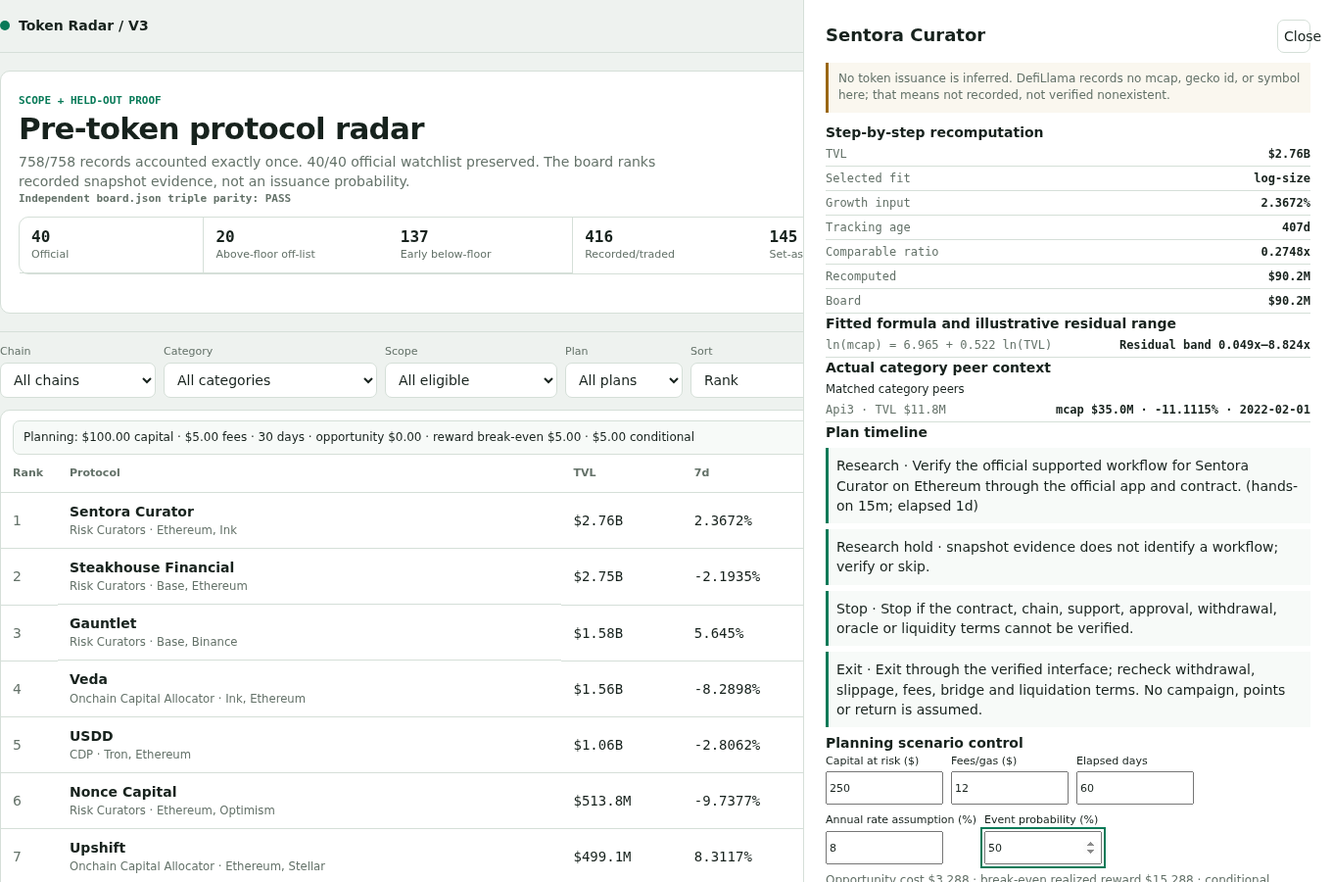
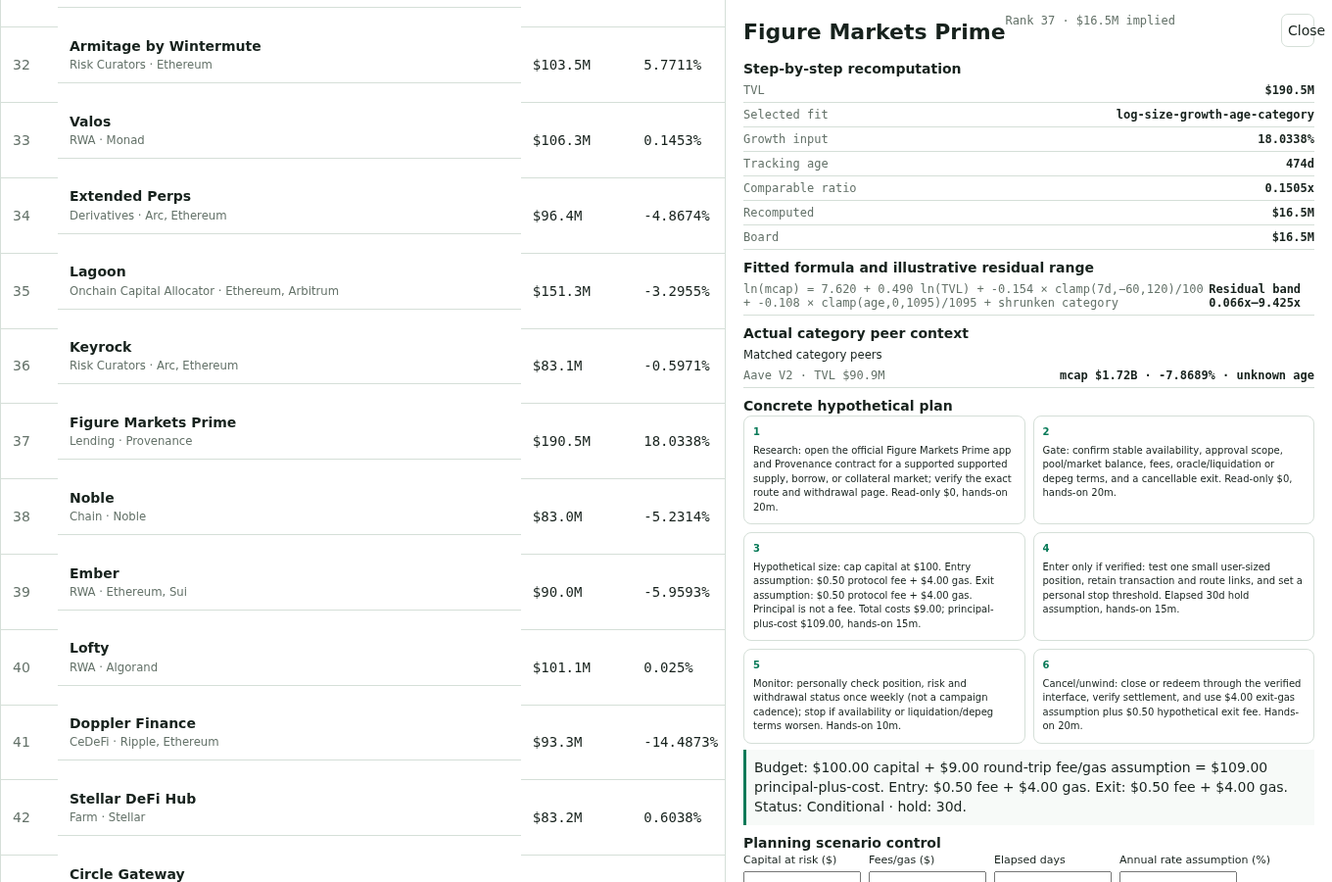
Build Token Radar V4 with costed plans and active valuation inputs

diff --git a/dashboard/app.js b/dashboard/app.js
@@ -18,17 +18,17 @@ function usd(n){if(n==null)return "n/a";if(Math.abs(n)>=1e9)return "$"+(n/1e9).t
 function el(t,c,x){var n=document.createElement(t);if(c)n.className=c;if(x!=null)n.textContent=x;return n}
 function row(r){return {rank:r[0],slug:r[1],name:r[2],category:r[3],chains:r[4],tvl:r[5],growth:r[6],age:r[7],watch:r[8],value:r[9],ratio:r[10],listed:r[11],model:r[12],sensitivity:r[13]}}
 function rows(){return D.rows.map(row)}
-function planStatus(r){return V.planStatus(r.category)}
+function planStatus(r){return V.buildPlan({name:r.name,category:r.category,chains:r.chains,tvl_usd:r.tvl},r.age).status}
 function categories(){var s={};rows().forEach(function(r){s[r.category||"Other"]=1});return Object.keys(s).sort()}
 function chains(){var s={};rows().forEach(function(r){(r.chains||[]).forEach(function(c){s[c]=1})});return Object.keys(s).sort()}
 function filtered(){var q=state.q.toLowerCase();return rows().filter(function(r){if(state.chain!="all"&&(r.chains||[]).indexOf(state.chain)<0)return false;if(state.category!="all"&&(r.category||"Other")!=state.category)return false;if(state.visibility=="watch"&&!r.watch)return false;if(state.visibility=="above"&&(r.watch||r.tvl<D.floor_usd))return false;if(state.visibility=="below"&&(r.watch||r.tvl>=D.floor_usd))return false;if(state.plan!="All"&&planStatus(r)!=state.plan)return false;if(q&&[r.name,r.slug,r.category||"",r.chains.join(" ")].join(" ").toLowerCase().indexOf(q)<0)return false;return true})}
-function header(){var h=el("header","top");var b=el("div","brand");b.appendChild(el("span","dot"));b.appendChild(el("span","","Token Radar / V3"));var m=el("div","topmeta");m.appendChild(el("span","",""+D.as_of+" snapshot"));m.appendChild(el("a","live-link",state.view=="live"?"Return to board":"Separate live view"));m.lastChild.onclick=function(){state.view=state.view=="live"?"board":"live";render();return false};h.appendChild(b);h.appendChild(m);return h}
+function header(){var h=el("header","top");var b=el("div","brand");b.appendChild(el("span","dot"));b.appendChild(el("span","","Token Radar / V4"));var m=el("div","topmeta");m.appendChild(el("span","",""+D.as_of+" snapshot"));m.appendChild(el("a","live-link",state.view=="live"?"Return to board":"Separate live view"));m.lastChild.onclick=function(){state.view=state.view=="live"?"board":"live";render();return false};h.appendChild(b);h.appendChild(m);return h}
 function proofCover(){var f=D.full_coverage,p=D.valuation_proof,c=f.partitions;var sec=el("section","cover");var copy=el("div","covercopy");copy.appendChild(el("span","eyebrow","SCOPE + HELD-OUT PROOF"));copy.appendChild(el("h1","","Pre-token protocol radar"));copy.appendChild(el("p","",""+f.accounted+"/"+f.total+" records accounted exactly once. "+D.coverage.covered+"/"+D.watchlist_size+" official watchlist preserved. The board ranks recorded snapshot evidence, not an issuance probability."));
 copy.appendChild(el("p","eyebrow","Independent board.json triple parity: PASS"));
 var grid=el("div","metrics");[
 ["Official",c.official.count],["Above-floor off-list",c.eligible_above_floor.count],["Early below-floor",c.eligible_early.count],["Recorded/traded",c.recorded_traded.count],["Set-aside",c.set_aside.count]
 ].forEach(function(x){var m=el("div","metric");m.appendChild(el("b","",x[1]+""));m.appendChild(el("span","",x[0]));grid.appendChild(m)});copy.appendChild(grid);sec.appendChild(copy);
-var proof=el("aside","proof");proof.appendChild(el("b","","Fitted vs baselines"));proof.appendChild(el("div","proofline","Flat TVL · med mult "+p.options.flat.median_multiplicative_error.toFixed(3)+" · rank "+p.options.flat.rank_correlation.toFixed(3)));proof.appendChild(el("div","proofline","V2 blend · med mult "+p.options.v2.median_multiplicative_error.toFixed(3)+" · rank "+p.options.v2.rank_correlation.toFixed(3)));proof.appendChild(el("div","proofline","Fit · med mult "+p.held_out.median_multiplicative_error.toFixed(3)+" · rank "+p.held_out.rank_correlation.toFixed(3)));proof.appendChild(el("small","",""+p.peer_count+" held-out peers; leave-one-out "+p.peer_count+" folds; residual range "+p.bands.low.toFixed(3)+"x–"+p.bands.high.toFixed(3)+"x"));proof.appendChild(el("small","","Excluded: WBTC = wrapped Bitcoin; Binance staked ETH = staked derivative; Coinbase Bridge = bridge category. Shared predicates apply blocked category, exchange name, version, and wrapped/staked/receipt reasons."));
+var proof=el("aside","proof");proof.appendChild(el("b","","Fitted vs baselines"));proof.appendChild(el("div","proofline","Flat TVL · med mult "+p.options.flat.median_multiplicative_error.toFixed(3)+" · rank "+p.options.flat.rank_correlation.toFixed(3)));proof.appendChild(el("div","proofline","V2 blend · med mult "+p.options.v2.median_multiplicative_error.toFixed(3)+" · rank "+p.options.v2.rank_correlation.toFixed(3)));proof.appendChild(el("div","proofline","V3 log-size · med mult "+p.options["log-size"].median_multiplicative_error.toFixed(3)+" · rank "+p.options["log-size"].rank_correlation.toFixed(3)));proof.appendChild(el("div","proofline","V4 deployed · med mult "+p.held_out.median_multiplicative_error.toFixed(3)+" · rank "+p.held_out.rank_correlation.toFixed(3)));proof.appendChild(el("small","",""+p.peer_count+" held-out peers; leave-one-out "+p.peer_count+" folds; residual range "+p.bands.low.toFixed(3)+"x–"+p.bands.high.toFixed(3)+"x"));proof.appendChild(el("small","","Excluded: WBTC = wrapped Bitcoin; Binance staked ETH = staked derivative; Coinbase Bridge = bridge category. Shared predicates apply blocked category, exchange name, version, and wrapped/staked/receipt reasons."));
 sec.appendChild(proof);return sec}
 function controls(){var c=el("div","controls");function field(label,opts,id,change){var f=el("div","field");f.appendChild(el("label","",""+label));var s=el("select","");s.id=id;opts.forEach(function(o){var x=el("option","",o[1]);x.value=o[0];s.appendChild(x)});s.value=state[id]||"all";s.onchange=function(){state[id]=s.value;render()};f.appendChild(s);c.appendChild(f)}
 field("Chain",[["all","All chains"]].concat(chains().map(function(x){return [x,x]})),"chain");
@@ -38,20 +38,20 @@ field("Plan",[["All","All plans"],["Research","Research"],["Conditional","Condit
 field("Sort",[["rank","Rank"],["value","Implied value"],["tvl","TVL"],["name","Name"],["growth","7-day growth"]],"sort");
 var q=el("input","search");q.id="q";q.placeholder="Search protocol";q.value=state.q;q.oninput=function(){state.q=q.value;renderList()};c.appendChild(q);return c}
 function liveTable(){var q=state.q.toLowerCase(),list=D.live.map(function(a){return{slug:a[0],name:a[1],category:a[2],chains:a[3],tvl:a[4],mcap:a[5],growth:a[6],symbol:a[7]}}).filter(function(r){if(state.chain!="all"&&(r.chains||[]).indexOf(state.chain)<0)return false;if(state.category!="all"&&(r.category||"Other")!=state.category)return false;if(q&&[r.name,r.slug,r.category||"",r.symbol||"",r.chains.join(" ")].join(" ").toLowerCase().indexOf(q)<0)return false;return true});var panel=el("div","panel"),wrap=el("div","tablewrap"),table=el("table","live-table");table.appendChild(el("caption","live-caption","Reference records only; excluded from the pre-token ranking"));var tr=el("tr","");["Symbol","Protocol","Category","TVL","Reported mcap","7d"].forEach(function(t){tr.appendChild(el("th","",t))});table.appendChild(tr);list.forEach(function(r){var tr=el("tr","");tr.dataset.liveSlug=r.slug;tr.appendChild(el("td","",r.symbol||"n/a"));tr.appendChild(el("td","",r.name));tr.appendChild(el("td","",r.category||"Other"));tr.appendChild(el("td","num",usd(r.tvl)));tr.appendChild(el("td","num",r.mcap==null?"n/a":usd(r.mcap)));tr.appendChild(el("td","num",r.growth==null?"n/a":r.growth+"%"));table.appendChild(tr)});wrap.appendChild(table);panel.appendChild(wrap);return panel}
-function table(){var list=filtered().slice().sort(function(a,b){if(state.sort==="value")return b.value-a.value||a.slug.localeCompare(b.slug);if(state.sort==="tvl")return b.tvl-a.tvl||a.slug.localeCompare(b.slug);if(state.sort==="name")return a.name.localeCompare(b.name);if(state.sort==="growth")return (b.growth==null?-Infinity:b.growth)-(a.growth==null?-Infinity:a.growth)||a.slug.localeCompare(b.slug);return a.rank-b.rank||a.slug.localeCompare(b.slug)}),panel=el("div","panel"),wrap=el("div","tablewrap"),table=el("table",""),tr=el("tr","");["Rank","Protocol","TVL","7d","Value","Status","Plan"].forEach(function(t){tr.appendChild(el("th","",t))});table.appendChild(tr);list.forEach(function(r){var tr=el("tr","");tr.tabIndex=0;tr.onclick=function(){openDetail(r)};tr.onkeydown=function(e){if(e.key=="Enter"||e.key==" "){e.preventDefault();openDetail(r)}};tr.appendChild(el("td","rank",""+r.rank));var p=el("td","protocol");p.appendChild(el("b","",r.name));p.appendChild(el("small","",(r.category||"Other")+" · "+r.chains.slice(0,2).join(", ")));tr.appendChild(p);tr.appendChild(el("td","num",usd(r.tvl)));tr.appendChild(el("td","num",r.growth==null?"n/a":r.growth+"%"));tr.appendChild(el("td","num",usd(r.value)));tr.appendChild(el("td","",r.watch?"40 official watchlist":r.tvl>=D.floor_usd?"Above-floor off-list":"Below-floor off-list"));tr.appendChild(el("td","",planStatus(r)));table.appendChild(tr)});var m=V.scenarioMath({capital:state.capital,fees:state.fees,days:state.days,rate:state.rate,probability:state.probability});var summary=el("div","scenario-summary","Planning: $"+state.capital.toFixed(2)+" capital · $"+state.fees.toFixed(2)+" fees · "+state.days+" days · opportunity $"+m.opportunity.toFixed(2)+" · reward break-even $"+m.breakEven.toFixed(2)+" · "+(m.conditionalRequired===null?"unattainable":"$"+m.conditionalRequired.toFixed(2)+" conditional"));panel.appendChild(summary);wrap.appendChild(table);panel.appendChild(wrap);return panel}
-function openDetail(r){var d=document.getElementById("detail");d.hidden=false;d.replaceChildren();var h=el("div","detailhead");h.appendChild(el("h2","",r.name));var close=el("button","close","Close");close.onclick=function(){d.hidden=true};h.appendChild(close);d.appendChild(h);d.appendChild(el("p","caveat","No token issuance is inferred. DefiLlama records no mcap, gecko id, or symbol here; that means not recorded, not verified nonexistent."));
+function table(){var list=filtered().slice().sort(function(a,b){if(state.sort==="value")return b.value-a.value||a.slug.localeCompare(b.slug);if(state.sort==="tvl")return b.tvl-a.tvl||a.slug.localeCompare(b.slug);if(state.sort==="name")return a.name.localeCompare(b.name);if(state.sort==="growth")return (b.growth==null?-Infinity:b.growth)-(a.growth==null?-Infinity:a.growth)||a.slug.localeCompare(b.slug);return a.rank-b.rank||a.slug.localeCompare(b.slug)}),panel=el("div","panel"),wrap=el("div","tablewrap"),table=el("table",""),tr=el("tr","");["Rank","Protocol","TVL","7d","Value","Status","Plan"].forEach(function(t){tr.appendChild(el("th","",t))});table.appendChild(tr);list.forEach(function(r){var tr=el("tr","");tr.tabIndex=0;tr.onclick=function(){openDetail(r)};tr.onkeydown=function(e){if(e.key=="Enter"||e.key==" "){e.preventDefault();openDetail(r)}};tr.appendChild(el("td","rank",""+r.rank));var p=el("td","protocol");p.appendChild(el("b","",r.name));p.appendChild(el("small","",(r.category||"Other")+" · "+r.chains.slice(0,2).join(", ")));tr.appendChild(p);tr.appendChild(el("td","num",usd(r.tvl)));tr.appendChild(el("td","num",r.growth==null?"n/a":r.growth+"%"));tr.appendChild(el("td","num",usd(r.value)));tr.appendChild(el("td","",r.watch?"40 official watchlist":r.tvl>=D.floor_usd?"Above-floor off-list":"Below-floor off-list"));var plan=V.buildPlan({name:r.name,category:r.category,chains:r.chains,tvl_usd:r.tvl},r.age);var pc=el("td","plan-budget");pc.appendChild(el("span","plan-status",plan.status));pc.appendChild(el("b","",plan.status==="Conditional"?"$"+plan.total.toFixed(2)+" principal+cost":"$0 execution"));pc.appendChild(el("small","",plan.status==="Conditional"?plan.hold+"d hold":"read-only/no hold"));tr.appendChild(pc);table.appendChild(tr)});var m=V.scenarioMath({capital:state.capital,fees:state.fees,days:state.days,rate:state.rate,probability:state.probability});var summary=el("div","scenario-summary","Planning: $"+state.capital.toFixed(2)+" capital · $"+state.fees.toFixed(2)+" fees · "+state.days+" days · opportunity $"+m.opportunity.toFixed(2)+" · reward break-even $"+m.breakEven.toFixed(2)+" · "+(m.conditionalRequired===null?"unattainable":"$"+m.conditionalRequired.toFixed(2)+" conditional"));panel.appendChild(summary);wrap.appendChild(table);panel.appendChild(wrap);return panel}
+function openDetail(r){var d=document.getElementById("detail");d.hidden=false;d.replaceChildren();var h=el("div","detailhead");h.appendChild(el("h2","",r.name));h.appendChild(el("div","detail-value","Rank "+r.rank+" · "+usd(r.value)+" implied"));var close=el("button","close","Close");close.onclick=function(){d.hidden=true};h.appendChild(close);d.appendChild(h);d.appendChild(el("p","caveat","No token issuance is inferred. DefiLlama records no mcap, gecko id, or symbol here; that means not recorded, not verified nonexistent."));
 var selected=Math.max(1,Math.round(V.selectedPredict(D.valuation_proof.parameters,{category:r.category,tvl_usd:r.tvl,change_7d:r.growth,listed_at:r.listed})));if(selected!==r.value)throw new Error("board parity failed "+r.slug);
 d.appendChild(el("h3","","Step-by-step recomputation"));var eq=[["TVL",usd(r.tvl)],["Selected fit",D.valuation_proof.selected],["Growth input",r.growth==null?"0 neutral":r.growth+"%"],["Tracking age",r.age==null?"365d fallback":r.age+"d"],["Comparable ratio",r.ratio==null?"n/a":r.ratio.toFixed(4)+"x"],["Recomputed",usd(selected)],["Board",usd(r.value)]];eq.forEach(function(x){var z=el("div","eq");z.appendChild(el("span","",x[0]));z.appendChild(el("b","",x[1]));d.appendChild(z)});
 d.appendChild(el("h3","","Fitted formula and illustrative residual range"));
-if(D.valuation_proof.selected=="log-size"){var beta=D.valuation_proof.parameters.beta||[];d.appendChild(el("div","eq"));var formula=d.lastChild;formula.appendChild(el("span","","ln(mcap) = "+(beta[0]||0).toFixed(3)+" + "+(beta[1]||0).toFixed(3)+" ln(TVL)"));formula.appendChild(el("b","","Residual band "+D.valuation_proof.bands.low.toFixed(3)+"x–"+D.valuation_proof.bands.high.toFixed(3)+"x"))}
+if(D.valuation_proof.selected=="log-size-growth-age-category"){var beta=D.valuation_proof.parameters.beta||[];d.appendChild(el("div","eq"));var formula=d.lastChild;formula.appendChild(el("span","","ln(mcap) = "+(beta[0]||0).toFixed(3)+" + "+(beta[1]||0).toFixed(3)+" ln(TVL) + "+(beta[2]||0).toFixed(3)+" × clamp(7d,−60,120)/100 + "+(beta[3]||0).toFixed(3)+" × clamp(age,0,1095)/1095 + shrunken category"));formula.appendChild(el("b","","Residual band "+D.valuation_proof.bands.low.toFixed(3)+"x–"+D.valuation_proof.bands.high.toFixed(3)+"x"))}
 d.appendChild(el("h3","","Actual category peer context"));
 var peerRows=(D.valuation_proof.peers||[]).filter(function(p){return p[2]===(r.category||null)||p[2]==r.category}).slice(0,4);
 var peerLabel="Matched category peers";
 if(!peerRows.length){peerRows=[];peerLabel="No category peers shown; market-wide context only"}
 d.appendChild(el("small","",peerLabel));
 peerRows.forEach(function(p){d.appendChild(el("div","eq"));var z=d.lastChild;z.appendChild(el("span","",p[1]+" · TVL "+usd(p[3])));z.appendChild(el("b","","mcap "+usd(p[4])+" · "+(p[5]==null?"7d n/a":p[5]+"%")+" · "+(p[6]||"unknown age")))});
-d.appendChild(el("h3","","Plan timeline"));var action=V.planActions({name:r.name,category:r.category,chains:r.chains}),status=planStatus(r);d.appendChild(el("div","timeline","Research · "+action.verify+" (hands-on 15m; elapsed 1d)"));d.appendChild(el("div","timeline",status==="Research"?"Research hold · snapshot evidence does not identify a workflow; verify or skip.":status==="Skip"? "Skip · bridge/staking/restaking workflow needs explicit verification.":"Conditional · lending/pool product; verify supply/pool, approvals and withdrawal."));d.appendChild(el("div","timeline","Stop · "+action.stop));d.appendChild(el("div","timeline","Exit · "+action.exit+" No campaign, points or return is assumed."));
-var s=el("section","scenario");s.appendChild(el("h3","","Planning scenario control"));var form=el("div","scenarioform");function num(label,key){var f=el("label","",label);var i=el("input","");i.type="number";i.value=state[key];i.oninput=function(){state[key]=Number(i.value)||0;drawPlan()};f.appendChild(i);form.appendChild(f)}num("Capital at risk ($)","capital");num("Fees/gas ($)","fees");num("Elapsed days","days");num("Annual rate assumption (%)","rate");num("Event probability (%)","probability");state.rate=state.rate||0;state.fees=state.fees==null?state.fee:state.fees;state.probability=state.probability||100;if(document.body){}s.appendChild(form);var calcP=el("div","break","");calcP.id="break-even";s.appendChild(calcP);d.appendChild(s);drawPlan()}
+d.appendChild(el("h3","","Concrete hypothetical plan"));var plan=V.buildPlan({name:r.name,category:r.category,chains:r.chains,tvl_usd:r.tvl},r.age),planGrid=el("div","step-grid");plan.steps.forEach(function(step,i){var card=el("article","step-card");card.appendChild(el("b","",""+(i+1)));card.appendChild(el("p","",step));planGrid.appendChild(card)});d.appendChild(planGrid);d.appendChild(el("div","timeline","Budget: $"+plan.capital.toFixed(2)+" capital + $"+(plan.fees+plan.gas).toFixed(2)+" round-trip fee/gas assumption = $"+plan.total.toFixed(2)+" principal-plus-cost. Entry: $"+(plan.entry?plan.entry.fee:0).toFixed(2)+" fee + $"+(plan.entry?plan.entry.gas:0).toFixed(2)+" gas. Exit: $"+(plan.exit?plan.exit.fee:0).toFixed(2)+" fee + $"+(plan.exit?plan.exit.gas:0).toFixed(2)+" gas. Status: "+plan.status+" · hold: "+plan.hold+"d."));
+var s=el("section","scenario");s.appendChild(el("h3","","Planning scenario control"));var form=el("div","scenarioform");function num(label,key,value){var f=el("label","",label);var i=el("input","");i.type="number";i.value=value; i.oninput=function(){state[key]=i.value===""?0:Number(i.value);drawPlan()};f.appendChild(i);form.appendChild(f)}num("Capital at risk ($)","capital",plan.status==="Conditional"?plan.capital:0);num("Fees/gas ($)","fees",plan.status==="Conditional"?plan.fees+plan.gas:0);num("Elapsed days","days",plan.hold);num("Annual rate assumption (%)","rate",0);num("Event probability (%)","probability",100);state.capital=plan.status==="Conditional"?plan.capital:0;state.fees=plan.status==="Conditional"?plan.fees+plan.gas:0;state.days=plan.hold;state.rate=0;state.probability=100;s.appendChild(form);var calcP=el("div","break","");calcP.id="break-even";s.appendChild(calcP);d.appendChild(s);drawPlan()}
 function drawPlan(){var b=document.getElementById("break-even");if(b){var m=V.scenarioMath({capital:state.capital,fees:state.fees,days:state.days,rate:state.rate,probability:state.probability});var conditional=m.conditionalRequired===null?"unattainable at 0% probability":usd(m.conditionalRequired)+" at "+state.probability+"% probability";b.textContent="Opportunity cost "+usd(m.opportunity)+" · break-even realized reward "+usd(m.breakEven)+" · conditional "+conditional+". Fees are on-chain/service costs; principal remains principal. "+D.canonical_plan_status}}
 function renderList(){var old=document.getElementById("board-content");if(old)old.replaceChildren(state.view=="live"?liveTable():table());var count=document.getElementById("count");if(count)count.textContent=filtered().length+" protocols"}
 function render(){var app=document.getElementById("app");app.replaceChildren();app.appendChild(header());app.appendChild(proofCover());app.appendChild(controls());var bc=el("div","","");bc.id="board-content";bc.appendChild(state.view=="live"?liveTable():table());app.appendChild(bc);var detail=document.getElementById("detail");detail.hidden=true}

diff --git a/dashboard/valuation.js b/dashboard/valuation.js
@@ -31,17 +31,60 @@ function proof(snapshot){
   var categories=[];peers.forEach(function(p){if(p.category&&categories.indexOf(p.category)<0)categories.push(p.category)});
   var options=[{name:'flat',size:false,growth:false,age:false,category:false},{name:'v2',size:false,growth:true,age:true,category:true},{name:'log-size',size:true,growth:false,age:false,category:false},{name:'log-size-category',size:true,growth:false,age:false,category:true},{name:'log-size-growth',size:true,growth:true,age:false,category:false},{name:'log-size-age',size:true,growth:false,age:true,category:false},{name:'log-size-growth-age-category',size:true,growth:true,age:true,category:true}],pairs={},metrics={};
   options.forEach(function(option){pairs[option.name]=looPairs(peers,categories,option,snapshot.as_of);metrics[option.name]=evaluate(pairs[option.name])});
-  var selected=options.slice().sort(function(a,b){var am=metrics[a.name].median_multiplicative_error,bm=metrics[b.name].median_multiplicative_error;if(am==null)return 1;if(bm==null)return -1;if(am!==bm)return am-bm;return metrics[b.name].rank_correlation-metrics[a.name].rank_correlation})[0];
+  var lowest=options.slice().sort(function(a,b){var am=metrics[a.name].median_multiplicative_error,bm=metrics[b.name].median_multiplicative_error;if(am==null)return 1;if(bm==null)return -1;if(am!==bm)return am-bm;return metrics[b.name].rank_correlation-metrics[a.name].rank_correlation})[0];
+  var deployed=options.find(function(o){return o.name==='log-size-growth-age-category'})||lowest;
+  var selected=deployed;
   var held=metrics[selected.name],residual=held.residual.slice().sort(function(a,b){return a-b}),qlo=residual.length?residual[Math.floor(residual.length*.1)]:-.25,qhi=residual.length?residual[Math.ceil(residual.length*.9)-1]:.25;
   var known=peers.filter(function(p){return p.listed_at}).sort(function(a,b){return a.listed_at.localeCompare(b.listed_at)}),dates=known.map(function(p){return p.listed_at}).filter(function(d,i,a){return i===0||d!==a[i-1]}),boundary=dates.length?dates[Math.floor(dates.length*.7)]:null;
   var older=boundary?known.filter(function(p){return p.listed_at<boundary}):[],newer=boundary?known.filter(function(p){return p.listed_at>=boundary}):[];
   function cohort(train,test){var f=fit(train,categories,selected,snapshot.as_of),pairs=test.map(function(p){return{actual:p.mcap_usd,predicted:predict(f,p)}});return evaluate(pairs)}
   var full=fit(peers,categories,selected,snapshot.as_of),bands={low:Math.exp(qlo),high:Math.exp(qhi),basis:'10th/90th pooled leave-one-out residual ratios; illustrative, snapshot not backtest'};
-  return{peer_count:peers.length,options:metrics,selected:selected.name,parameters:full,held_out:held,bands:bands,older_to_newer:cohort(older,newer),newer_to_older:cohort(newer,older),cohort_note:'Snapshot-date grouping from listed_at; train strictly before boundary, test at/after boundary; unknown dates excluded. Boundary '+(boundary||'none')+', neither side is a historical backtest.',peers:peers.slice(0,12).map(function(p){return[p.slug,p.name,p.category,p.tvl_usd,p.mcap_usd,p.change_7d,p.listed_at]})};
+  return{peer_count:peers.length,options:metrics,lowest_error:lowest.name,selected:selected.name,parameters:full,held_out:held,bands:bands,older_to_newer:cohort(older,newer),newer_to_older:cohort(newer,older),cohort_note:'Snapshot-date grouping from listed_at; train strictly before boundary, test at/after boundary; unknown dates excluded. Boundary '+(boundary||'none')+', neither side is a historical backtest.',peers:peers.slice(0,12).map(function(p){return[p.slug,p.name,p.category,p.tvl_usd,p.mcap_usd,p.change_7d,p.listed_at]})};
 }
 function selectedPredict(parameters,p){return predict(parameters,p)}
-function planStatus(category){var c=(category||'').toLowerCase();if(/lend|lending|cdp|collateral/.test(c)||/dex|pool|yield|liquidity|amm/.test(c))return'Conditional';if(/bridge|staking|restak/.test(c)||/cex/.test(c))return'Skip';return'Research'}
-function planActions(protocol){var c=(protocol.category||'').toLowerCase(),chain=(protocol.chains&&protocol.chains[0])||'main chain',product=/lend|lending|cdp|collateral/.test(c)?'supported supply/borrow or collateral market':/dex|pool|yield|liquidity|amm/.test(c)?'documented pool or liquidity position':'official supported workflow';return{status:planStatus(protocol.category),chain:chain,verify:'Verify the '+product+' for '+protocol.name+' on '+chain+' through the official app and contract.',stop:'Stop if the contract, chain, support, approval, withdrawal, oracle or liquidity terms cannot be verified.',exit:'Exit through the verified interface; recheck withdrawal, slippage, fees, bridge and liquidation terms.'}}
+function buildPlan(protocol,ageDaysValue){
+  var c=(protocol.category||'').toLowerCase(),chain=(protocol.chains&&protocol.chains[0])||'main chain',capital=protocol.tvl_usd>=5000000000?250:protocol.tvl_usd>=1000000000?150:protocol.tvl_usd>=100000000?100:50,hold=ageDaysValue===null||ageDaysValue===undefined?30:ageDaysValue<180?60:ageDaysValue<365?45:30;
+  var lending=/lend|lending|cdp|collateral/.test(c),pool=/dex|pool|yield|liquidity|amm/.test(c),skip=/bridge|staking|restak/.test(c)||/cex/.test(c);
+  var status=skip?'Skip':lending||pool?'Conditional':'Research';
+  if(status==='Research'){
+    var researchSteps=['Read-only research: verify an official supported product for '+protocol.name+' on '+chain+'; the snapshot category does not establish one. $0 execution, hands-on 20m.',
+      'Go/no-go: require official app/contract, stable route, balance/liquidity, approval scope and a verified withdrawal or settlement page. $0 execution, hands-on 20m.',
+      'Do not size or enter until a documented route passes the checklist. Hypothetical budget $0; no fee or gas market quote is assumed.',
+      'Personal monitor: check availability once weekly, as a user-defined assumption rather than campaign cadence. Hands-on 5m.',
+      'Stop: cancel if support, chain, route or exit terms remain unclear. $0 execution and $0 execution fees.',
+      'Unwind: no transaction is recommended; record the result of verification and close the case. Hands-on 5m.'];
+    return{status:status,capital:0,fees:0,gas:0,total:0,hold:hold,steps:researchSteps};
+  }
+  if(status==='Skip'){
+    var skipSteps=['Read-only: verify whether '+protocol.name+' has a stable route on '+chain+' and whether withdrawal or unstaking is actually available. Hypothetical cost $0; hands-on 15m.',
+      'Go/no-go: require official contract, support status, and an exit/settlement page; if unavailable, keep $0 execution budget. Hands-on 20m.',
+      'Do not enter: '+protocol.name+' is not given a runnable workflow by the snapshot; personal monitor weekly, not a campaign cadence. Hands-on 5m.',
+      'Stop: cancel before wallet approval if oracle, route, lockup or settlement is unclear. $0 until verified.',
+      'No unwind transaction: if no route exists, record verification and close the case. Hands-on 5m.',
+      'Exit/settlement: this category has no verified execution claim; no fees or market quotes are implied.'];
+    return{status:status,capital:0,fees:0,gas:0,total:0,hold:hold,steps:skipSteps};
+  }
+  var product=lending?'supported supply, borrow, or collateral market':'low-complexity two-asset liquidity pool';
+  var entryFee=lending?0.50:pool?1.50:0.50,entryGas=lending?4:pool?6:3;
+  var exitFee=lending?0.50:pool?1.50:0.50,exitGas=lending?4:pool?6:3;
+  var fee=entryFee+exitFee,gas=entryGas+exitGas,total=capital+fee+gas;
+  var steps=lending?[
+    'Research: open the official '+protocol.name+' app and '+chain+' contract for a supported '+product+'; verify the exact route and withdrawal page. Read-only $0, hands-on 20m.',
+    'Gate: confirm stable availability, approval scope, pool/market balance, fees, oracle/liquidation or depeg terms, and a cancellable exit. Read-only $0, hands-on 20m.',
+    'Hypothetical size: cap capital at $'+capital+'. Entry assumption: $'+entryFee.toFixed(2)+' protocol fee + $'+entryGas.toFixed(2)+' gas. Exit assumption: $'+exitFee.toFixed(2)+' protocol fee + $'+exitGas.toFixed(2)+' gas. Principal is not a fee. Total costs $'+(fee+gas).toFixed(2)+'; principal-plus-cost $'+total.toFixed(2)+', hands-on 15m.',
+    'Enter only if verified: test one small user-sized position, retain transaction and route links, and set a personal stop threshold. Elapsed '+hold+'d hold assumption, hands-on 15m.',
+    'Monitor: personally check position, risk and withdrawal status once weekly (not a campaign cadence); stop if availability or liquidation/depeg terms worsen. Hands-on 10m.',
+    'Cancel/unwind: close or redeem through the verified interface, verify settlement, and use $'+exitGas.toFixed(2)+' exit-gas assumption plus $'+exitFee.toFixed(2)+' hypothetical exit fee. Hands-on 20m.'
+  ]:[
+    'Research: open the official '+protocol.name+' app and '+chain+' contract for a supported low-complexity two-asset liquidity pool; verify the exact pair, pool, and withdrawal route. Read-only $0, hands-on 20m.',
+    'Gate: confirm pool availability, pair balance, approval scope, pool share terms, slippage, fees, oracle/depeg risk and a cancellable withdrawal route. Read-only $0, hands-on 20m.',
+    'Hypothetical size: cap capital at $'+capital+'. Entry assumption: $'+entryFee.toFixed(2)+' protocol fee + $'+entryGas.toFixed(2)+' gas. Exit assumption: $'+exitFee.toFixed(2)+' protocol fee + $'+exitGas.toFixed(2)+' gas. Principal is not a fee. Total costs $'+(fee+gas).toFixed(2)+'; principal-plus-cost $'+total.toFixed(2)+', hands-on 15m.',
+    'Enter only if verified: add one small pool position after checking pair balance and slippage, retain transaction/route links, and set a personal stop threshold. Elapsed '+hold+'d hold assumption, hands-on 15m.',
+    'Monitor: personally check pool share, pair balance, withdrawal liquidity and depeg/slippage risk once weekly (not campaign cadence); stop if terms worsen. Hands-on 10m.',
+    'Cancel/unwind: burn or withdraw the pool share through the verified interface, verify settlement and pair redemption, and use $'+exitGas.toFixed(2)+' exit-gas plus $'+exitFee.toFixed(2)+' hypothetical exit fee. Hands-on 20m.'
+  ];
+  return{status:status,capital:capital,fees:fee,gas:gas,total:total,entry:{fee:entryFee,gas:entryGas},exit:{fee:exitFee,gas:exitGas},hold:hold,steps:steps};
+}
 function scenarioMath(input){var capital=Math.max(0,Number(input.capital)||0),rate=Math.max(0,Number(input.rate)||0)/100,days=Math.max(0,Number(input.days)||0),fees=Math.max(0,Number(input.fees)||0),raw=input.probability===undefined?100:Number(input.probability),probability=Number.isFinite(raw)?clamp(raw,0,100)/100:1,opportunity=capital*rate*days/365,breakEven=fees+opportunity,conditionalRequired=probability>0?breakEven/probability:null;return{opportunity:opportunity,breakEven:breakEven,conditionalRequired:conditionalRequired}}
-return{clamp:clamp,median:median,ageDays:ageDays,calculate:calculate,spearman:spearman,ols:ols,fit:fit,predict:predict,evaluate:evaluate,proof:proof,selectedPredict:selectedPredict,parityCheck:parityCheck,planStatus:planStatus,planActions:planActions,scenarioMath:scenarioMath};
+return{clamp:clamp,median:median,ageDays:ageDays,calculate:calculate,spearman:spearman,ols:ols,fit:fit,predict:predict,evaluate:evaluate,proof:proof,selectedPredict:selectedPredict,parityCheck:parityCheck,buildPlan:buildPlan,scenarioMath:scenarioMath};
 }));

diff --git a/lib/model.ts b/lib/model.ts
@@ -7,8 +7,6 @@ const valuation = createRequire(import.meta.url)('../dashboard/valuation.js') as
   ageDays: (asOf: string, listedAt: string | null) => number | null;
   calculate: (input: any) => any;
   proof: (snapshot: Snapshot) => any;
-  planStatus: (category: string | null) => 'Research' | 'Conditional' | 'Skip';
-  planActions: (protocol: {name:string;category:string|null;chains:string[]}) => any;
 };
 
 export interface SnapshotProtocol {
@@ -226,51 +224,9 @@ export function impliedValue(snapshot: Snapshot, protocol: SnapshotProtocol, mod
   return { implied: calc.implied, age: calc.age, growthPct: calc.growth, growthMult: calc.growthMultiplier, maturityMult: calc.maturityMultiplier, tvlAnchor: calc.tvlAnchor, comparableAnchor: calc.comparableAnchor, comparableCount: comparable.count, comparableRatio: comparable.ratio };
 }
 
-function chainOf(p: SnapshotProtocol): string {
-  return p.chains.length ? p.chains[0]! : 'its main chain';
-}
-
-function capitalFor(p: SnapshotProtocol): number {
-  if (p.tvl_usd >= 5_000_000_000) return 250;
-  if (p.tvl_usd >= 1_000_000_000) return 150;
-  if (p.tvl_usd >= 100_000_000) return 100;
-  return 50;
-}
-
-function holdDaysFor(age: number | null): number {
-  if (age === null) return 30;
-  if (age < 180) return 60;
-  if (age < 365) return 45;
-  return 30;
-}
-
-function actionFor(p: SnapshotProtocol, capital: number, chain: string): string {
-  const c = (p.category ?? '').toLowerCase();
-  const name = p.name;
-  if (c.includes('lend') || c.includes('cdp') || c.includes('collateral')) return `Verify the supported supply, borrow, or collateral workflow in ${name} on ${chain}; check oracle, withdrawal, and liquidation conditions before any transaction.`;
-  if (c.includes('dex') || c.includes('yield') || c.includes('leveraged farm')) return `Verify a documented low-complexity pool or yield workflow in ${name} on ${chain}; inspect pool balance, fees, withdrawal, and impermanent-loss terms.`;
-  if (c.includes('bridge')) return `Verify ${name}'s official bridge route to ${chain}; test only a user-selected capped amount and retain both transaction links.`;
-  if (c.includes('staking') || c.includes('restak')) return `Verify ${name}'s official supported staking or restaking product on ${chain}; inspect unstaking, slashing, receipt, and redemption terms.`;
-  if (c.includes('perpetual') || c.includes('derivative')) return `Verify ${name}'s supported margin or derivative workflow on ${chain}; inspect liquidation, funding, oracle, and close paths before action.`;
-  if (c.includes('prediction')) return `Verify ${name}'s supported market workflow on ${chain}; inspect resolution, settlement, and cancellation rules before action.`;
-  if (c.includes('stable') || c.includes('rwa')) return `Verify ${name}'s supported mint, deposit, or redemption workflow on ${chain}; inspect peg, redemption, custody, and depeg terms.`;
-  if (c.includes('insurance')) return `Verify ${name}'s supported cover workflow on ${chain}; inspect covered event, claim, and payout terms before action.`;
-  return `Verify ${name}'s official supported deposit or participation workflow on ${chain}; confirm the withdrawal path before any transaction.`;
-}
-
 export function farmSteps(p: SnapshotProtocol, age: number | null): string[] {
-  const chain = chainOf(p);
-  const shared = valuation.planActions(p);
-  const action = shared.verify;
-  const steps = [
-    `${action} Cost: $0 read-only. Hands-on: 15 minutes; elapsed: 1 day.`,
-    `Confirm chain, product, approval scope, withdrawal, fees, lockups, oracle, liquidity and liquidation terms. ${shared.stop} Cost: $0 read-only. Hands-on: 15-30 minutes.`,
-    `Set a user-entered capital-at-risk cap and wallet fee/gas quote; refundable principal is not a fee. No campaign, points or expected profit is assumed. Hands-on: 10-20 minutes.`,
-    `Enter only if the verified interface and stop gate pass. Record transactions and elapsed time; do not infer qualification. Hands-on: 10-30 minutes.`,
-    `Opportunities cost: edit capital, annual assumption, elapsed days and probability in the detail. Break-even includes fees and opportunity cost. Hands-on: 5 minutes.`,
-    `${shared.exit} Cost: network gas quote. Hands-on: 10-30 minutes.`,
-  ];
-  return steps;
+  const plan = valuation.buildPlan(p, age);
+  return plan.steps;
 }
 
 export function buildBoard(snapshot: Snapshot, model: ModelConstants = MODEL, fitProof?: any): BoardRow[] {
@@ -310,13 +266,16 @@ export function buildBoard(snapshot: Snapshot, model: ModelConstants = MODEL, fi
       p.tvl_usd >= snapshot.floor_usd && v.age !== null && p.change_7d !== null ? 'High'
       : p.tvl_usd >= 25_000_000 && v.age !== null ? 'Medium' : 'Low';
     const assumptions = [
-      `Comparable protocols contribute ${(model.comparable_blend * 100).toFixed(0)}% to the estimate through a median market-cap/TVL ratio.`,
-      `The remaining blend uses a ${model.tvl_multiple}x TVL anchor, adjusted for growth and an age maturity factor.`,
-      `Missing 7-day growth is modeled as 0%; missing age is modeled as ${model.unknown_age_days} days.`,
+      `Canonical model: intercept + coefficient × ln(TVL) + growth coefficient × clamp(7d,-60,120)/100 + age coefficient × clamp(age,0,1095)/1095 + shrunken category effect.`,
+      `V3 log-size median 3.3987/rank 0.4045; V4 deployed median 3.7627/rank 0.4040. V4 adds active growth/age/category terms without claiming lower error.`,
+      `Missing growth is neutral 0; missing age uses 365/1095 for the age feature; residual quantiles are held-out only.`,
     ];
     const caveat = 'No token issuance or future market outcome is inferred. DefiLlama may not have recorded a token; this is an estimate, not an airdrop prediction.';
+    const plan = valuation.buildPlan(p, v.age);
     const workflowStatus: 'Observational candidate' | 'Workflow unavailable' =
-      valuation.planStatus(p.category) === 'Skip' ? 'Workflow unavailable' : 'Observational candidate';
+      plan.status === 'Skip' ? 'Workflow unavailable'
+      : plan.status === 'Conditional' ? 'Observational candidate'
+      : 'Workflow unavailable';
     const sensitivity = {
       low_usd: Math.max(1, Math.round(v.implied * (fitProof?.bands?.low ?? 0.75))),
       base_usd: v.implied,
@@ -410,8 +369,8 @@ export function buildRadar(snapshot: Snapshot): { board: BoardRow[]; radar: Rada
     board_size: board.length,
     early_size: board.filter((r) => !watch.has(r.slug)).length,
     live_size: liveRows(snapshot).length,
-    comparable_method: 'Median live-token market-cap/TVL ratio: category median when at least 3 records exist, otherwise all live-token records. The live set is comparable evidence, not a hardcoded name list.',
-    formula: 'rounded whole-dollar value = round(((TVL × 0.25 × 55%) + (TVL × bounded median live mcap/TVL × 45%)) × growth factor × maturity factor)',
+    comparable_method: 'Canonical TVL/7d/age/category fit trained on traded snapshot peers; live-token records are not ranked as pre-token rows.',
+    formula: 'rounded whole-dollar value = round(exp(intercept + log-size coefficient × ln(TVL) + growth coefficient × clamp(7d,-60,120)/100 + age coefficient × clamp(tracking age,0,1095)/1095 + shrunken category effect))',
     coverage: { covered, total: snapshot.watchlist.length, full: covered === snapshot.watchlist.length, watchlist: snapshot.watchlist },
     rows: board,
     live: liveRows(snapshot),

diff --git a/dashboard/app.css b/dashboard/app.css
@@ -59,6 +59,8 @@ tbody tr{cursor:pointer}tbody tr:hover{background:#f7faf8}tbody tr:last-child td
 .formula-short{margin:10px 0;padding:9px 12px;border:1px solid var(--line);border-radius:8px;background:var(--paper);color:var(--muted);font-size:12px}.formula-short strong{color:var(--ink)}
 .live-caption{text-align:left;padding:10px 12px;color:var(--muted);font-size:12px}
 .live-table{table-layout:fixed;width:100%;white-space:normal}.live-table th,.live-table td{overflow-wrap:anywhere}.live-table th:nth-child(1){width:12%}.live-table th:nth-child(2){width:24%}.live-table th:nth-child(3){width:18%}.live-table th:nth-child(4){width:16%}.live-table th:nth-child(5){width:18%}.live-table th:nth-child(6){width:12%}
+.plan-budget{display:grid;gap:2px}.plan-status{font-size:10px;text-transform:uppercase;color:var(--muted)}.plan-budget b{font-size:12px}.plan-budget small{color:var(--muted)}
+.step-grid{display:grid;grid-template-columns:repeat(2,1fr);gap:8px}.step-card{min-height:95px;border:1px solid var(--line);border-radius:8px;padding:8px;font-size:11px}.step-card b{color:var(--green)}.step-card p{margin-top:4px}
 .live-protocol{white-space:normal}.live-name,.live-chains{display:block}.live-name{font-size:14px}.live-chains{margin-top:2px;color:var(--muted);font-size:11px;line-height:1.3}
 .formula{display:block;margin:8px 0;padding:9px;border:1px solid var(--line);border-radius:7px;background:#f7faf8;font-size:12px;overflow-wrap:anywhere}
 .step-grid{display:grid;grid-template-columns:1fr 1fr;gap:8px}.step-card{border:1px solid var(--line);border-radius:8px;padding:9px;font-size:12px}.step-card p{min-height:42px}.step-cost,.step-time{margin-top:5px;color:var(--muted);font-family:var(--mono);font-size:11px}
@@ -71,4 +73,5 @@ tbody tr{cursor:pointer}tbody tr:hover{background:#f7faf8}tbody tr:last-child td
 .tablewrap{overflow:auto}.protocol small{display:block;color:var(--muted)}.detailhead{display:flex;justify-content:space-between}.caveat{margin:10px 0;color:var(--muted)}.eq{display:flex;justify-content:space-between;border-bottom:1px solid var(--line);padding:5px 0;font:12px var(--mono)}.eq span{color:var(--muted)}.timeline{margin:6px 0;padding:8px;border-left:3px solid var(--green);background:#f7faf8}.scenarioform{display:flex;gap:8px;flex-wrap:wrap}.scenarioform label{display:grid;gap:3px;font-size:11px}.scenarioform input{width:120px;height:34px}.break{margin-top:8px;color:var(--muted);font-size:12px}
 @media(max-width:900px){.cover{grid-template-columns:1fr}.covercopy .metrics{grid-template-columns:repeat(3,1fr)}.proof{border-left:0;border-top:1px solid var(--line)}}
 .scenario-summary{margin:10px 12px 0;padding:8px 10px;border:1px solid var(--line);border-radius:7px;background:#f7faf8;font-size:12px;font-variant-numeric:tabular-nums}
+.detailhead{align-items:flex-start}.detail-value{margin-right:auto;color:var(--muted);font:12px var(--mono)}.detail{width:min(620px,96vw)}.detail h2{font-size:22px}.detail .caveat{display:none}.step-card{min-height:72px;font-size:10px}.detail{padding:14px 18px}.detail h3{margin-top:8px}
 .live-table{table-layout:fixed;width:100%;white-space:normal}.live-table th,.live-table td{overflow-wrap:anywhere}.live-table th:nth-child(1){width:12%}.live-table th:nth-child(2){width:24%}.live-table th:nth-child(3){width:18%}.live-table th:nth-child(4){width:16%}.live-table th:nth-child(5){width:18%}.live-table th:nth-child(6){width:12%}

diff --git a/README.md b/README.md
@@ -34,7 +34,7 @@ For each protocol:
 3. Pooled held-out pairs are the source of median multiplicative error and Spearman rank correlation; a true median is used for even pair counts.
 4. The selected held-out residual quantiles supply illustrative bands. This is cross-sectional snapshot evidence, not a historical backtest or issuance probability.
 
-The canonical result is selected from held-out peer comparisons, not from prescored values. The same peer records and leave-one-out folds compare flat TVL, the V2 category/global blend with growth and age, log TVL, shrinkage category effects, and growth/age ablations. Selection uses pooled held-out multiplicative error and pooled Spearman correlation. The selected log or categorical fit is applied to every canonical row. Illustrative bands use pooled held-out residual quantiles. The result is an explicit conditional implied-value model, not evidence of a future issuance, listing, token allocation, or price.
+The canonical V4 deployment is the log-size plus bounded 7-day growth, bounded tracking-age, and shrunken-category fit. It is intentionally retained to use TVL, growth, and tracking age together. The lowest-error candidate is reported separately; V4 deploys the active-input model and reports its held-out multiplicative error/rank tradeoff. The result is an explicit conditional implied-value model, not evidence of a future issuance, listing, token allocation, or price.
 
 Each detail shows fitted terms and illustrative residual bands. The bands come from pooled leave-one-out residual quantiles; they are not confidence intervals or probabilities.
 
